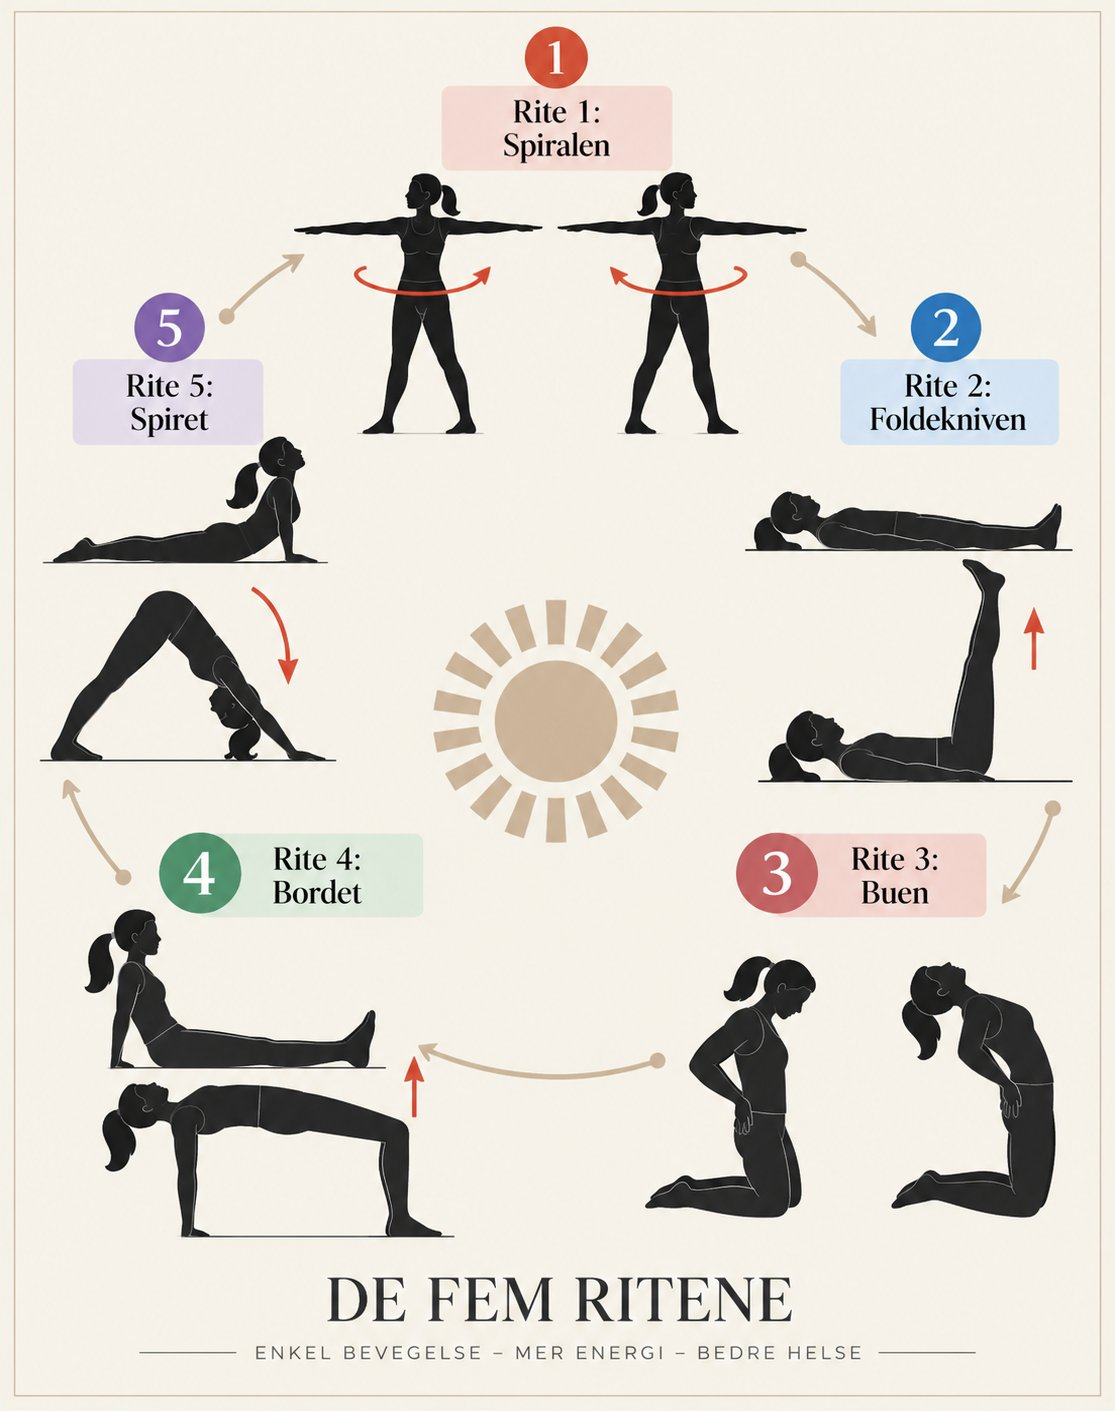
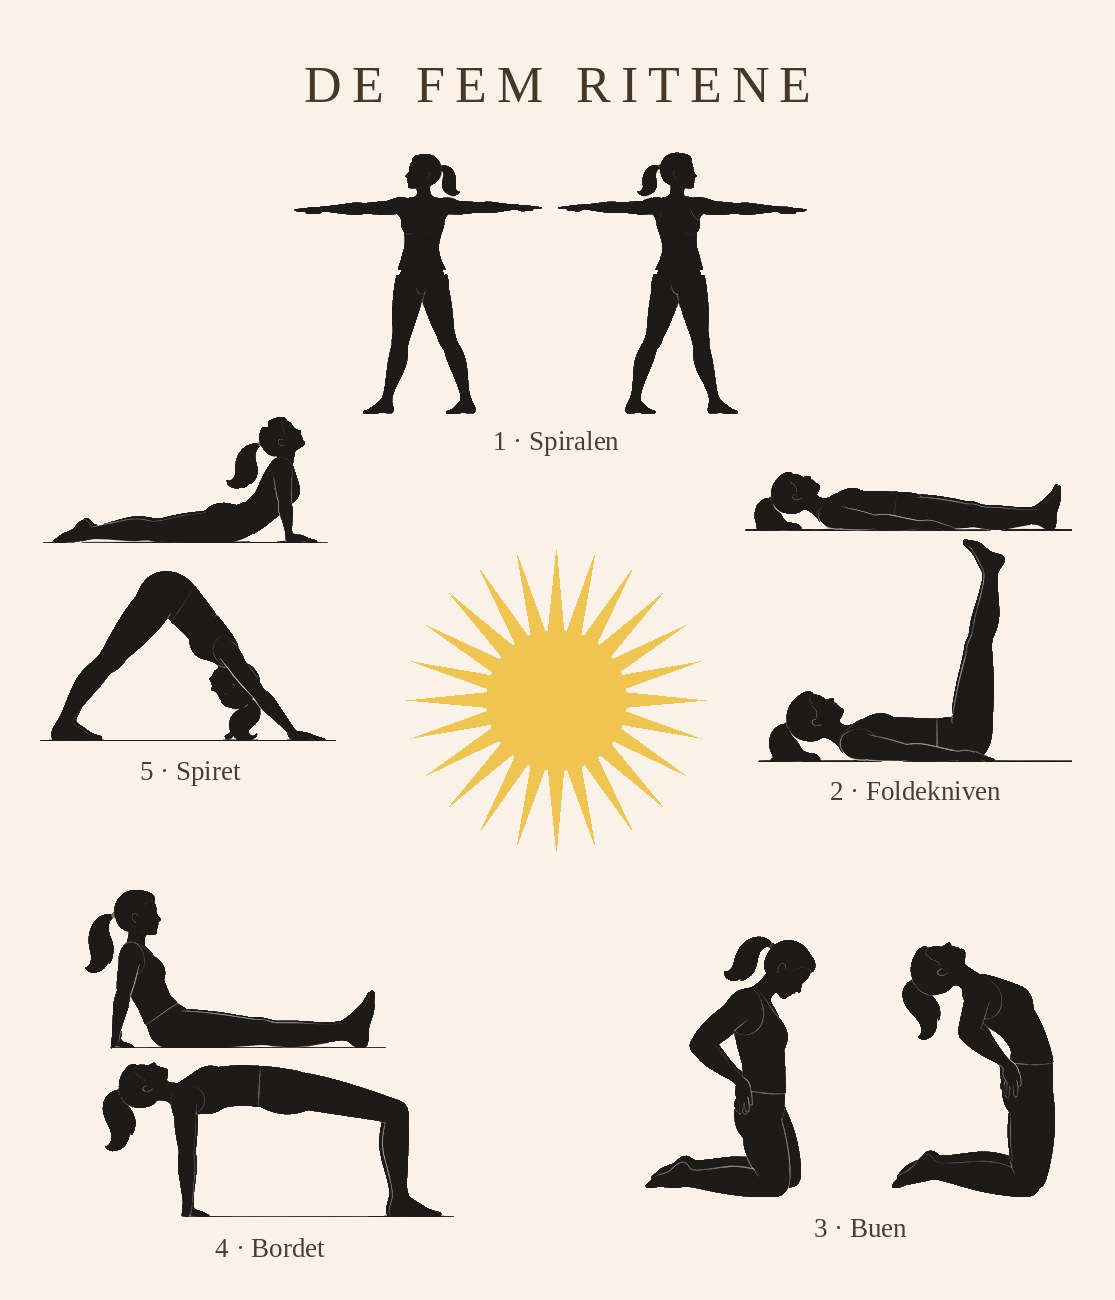
Tibetanske riter: illustrasjon og nummer i samme stil som Solhilsen
Illustrasjonen er tegnet om med krem bakgrunn, gul sol, sperret
tittel øverst og små serif-etiketter. Nummerne ved ritene bruker
sidens aksentfarge i stedet for fem ulike farger.

Claude-Session: https://claude.ai/code/session_01DWtavdzG1aHezbfkpCDJmy

diff --git a/fem-tibetanske-riter.html b/fem-tibetanske-riter.html
@@ -226,16 +226,11 @@
     width: 1.9rem;
     height: 1.9rem;
     border-radius: 50%;
+    background: var(--accent);
     color: #fff;
     font-size: 0.95rem;
     font-weight: 700;
   }
-
-  .rite-num.r1 { background: #d2533c; }
-  .rite-num.r2 { background: #2a6fb5; }
-  .rite-num.r3 { background: #c4505e; }
-  .rite-num.r4 { background: #3e8a5f; }
-  .rite-num.r5 { background: #8a68b8; }
 
   .breath {
     font-size: 0.92rem;
@@ -328,31 +323,31 @@
     <h2>Slik gjør du øvelsene</h2>
 
     <div class="rite">
-      <h3><span class="rite-num r1">1</span>Spiralen</h3>
+      <h3><span class="rite-num">1</span>Spiralen</h3>
       <p>Stå oppreist og avslappet, med armene løftet rett ut til sidene og strukket ut i skulderhøyde. La kroppen dreie mot høyre, så raskt som det føles naturlig. Hold høyre hæl i bakken under dreiebevegelsen, mens venstre fot styrer bevegelsen rundt med små skritt.</p>
       <p class="breath"><strong>Tips:</strong> Start rolig. Stopp hvis du blir svimmel.</p>
     </div>
 
     <div class="rite">
-      <h3><span class="rite-num r2">2</span>Foldekniven</h3>
+      <h3><span class="rite-num">2</span>Foldekniven</h3>
       <p>Ligg på ryggen, avslappet i utstrakt stilling, med hendene langs sidene. Løft hodet mot brystet samtidig som du løfter beina opp i loddrett stilling. Senk beina og hodet langsomt tilbake til utgangsstilling.</p>
       <p class="breath"><strong>Inn</strong> (gjennom nesen) når du løfter, <strong>ut</strong> (gjennom nese og munn) når du senker.</p>
     </div>
 
     <div class="rite">
-      <h3><span class="rite-num r3">3</span>Buen</h3>
+      <h3><span class="rite-num">3</span>Buen</h3>
       <p>Sitt på knærne med tærne i bakken og rank kropp fra knærne og opp. Hold hendene øverst på baksiden av lårene. Hold lår og hofter stabile under bevegelsen, som skal foregå fra hoftene og opp, med fokus på nakke, skuldre og bryst. La hodet, nakken og skuldrene strekke seg så langt bakover som mulig. Beveg deg så motsatt vei, slik at nakke og skuldre uanstrengt bøyer seg framover så langt du rekker.</p>
       <p class="breath"><strong>Inn</strong> når du bøyer bakover, <strong>ut</strong> når du bøyer framover.</p>
     </div>
 
     <div class="rite">
-      <h3><span class="rite-num r4">4</span>Bordet</h3>
+      <h3><span class="rite-num">4</span>Bordet</h3>
       <p>Sitt med rak overkropp, hendene i bakken og beina strake. Ha bekkenet og beina lett løftet, hvis du klarer det. Løft bekken, overkropp og knær opp, slik at overkroppen fra hofter til skuldre blir horisontal, som en bordplate. Armene skal være strake, med håndflatene i bakken som ved utgangspunktet. Gå tilbake til utgangsstillingen.</p>
       <p class="breath"><strong>Inn</strong> når du løfter, <strong>ut</strong> når du går tilbake.</p>
     </div>
 
     <div class="rite">
-      <h3><span class="rite-num r5">5</span>Spiret</h3>
+      <h3><span class="rite-num">5</span>Spiret</h3>
       <p>Vend deg rundt og vipp bekkenet ned mot gulvet, mens overkropp og hode holdes opp og bakover. Ha bøyde tær og håndflatene i gulvet, med omtrent en skulderbreddes avstand både mellom føttene og mellom hendene. Vipp rumpe og bekken opp, slik at hodet peker ned og beina er strake. Gå tilbake i utgangsstillingen.</p>
       <p class="breath"><strong>Inn</strong> når du vipper opp, <strong>ut</strong> når du går tilbake.</p>
     </div>
